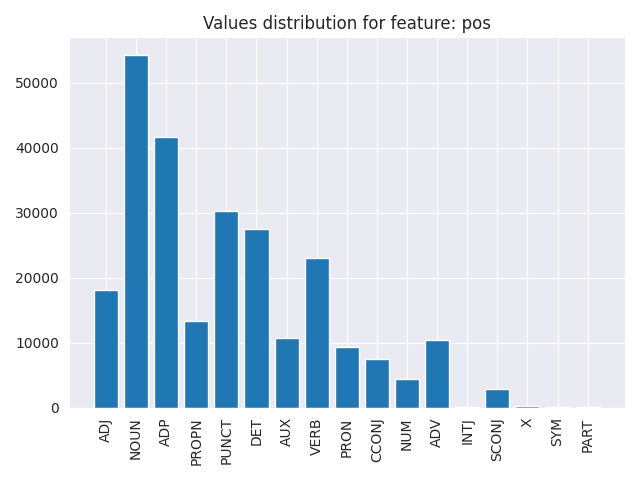
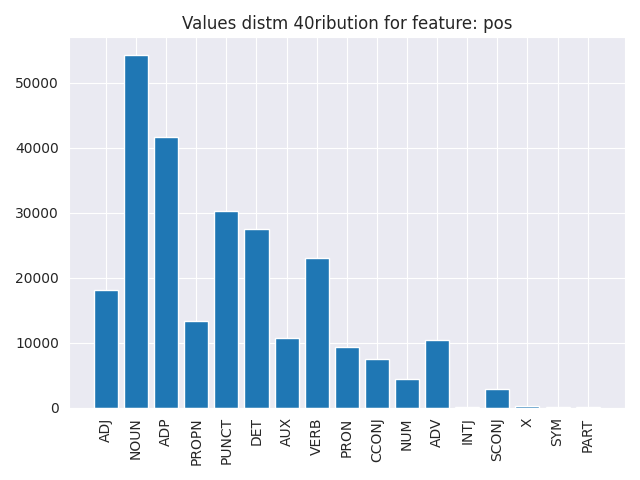
added new attention shift plots and code refactoring

Changed region(s): [[0.2812, 0.0312, 0.8125, 0.0625]]

diff --git a/scripts/attention_shift/utils.py b/scripts/attention_shift/utils.py
@@ -5,16 +5,10 @@ from tqdm import tqdm
 import seaborn as sns
 import pandas as pd
 import numpy as np
-import argparse
 import json
 import ast
 import csv
 import os
-
-sns.set_style('darkgrid')
-
-USER_IDS = [3, 11, 13, 17, 21, 26, 36, 37, 48]
-
 
 def load_json(src_path):
     with open(src_path, 'r') as src_file:
@@ -91,7 +85,7 @@ def sum_attention_across_dataset(dataset, feature, pos_filter):
             attention_counter_baseline[layer][feature_value] /= count
             attention_counter_finetuned[layer][feature_value] /= count
 
-    return attention_counter_baseline, attention_counter_finetuned
+    return attention_counter_baseline, attention_counter_finetuned, feature_occurrences
 
 
 
@@ -104,18 +98,22 @@ def compute_layer_attention_shift(attention_counter_baseline, attention_counter_
         layer_records.append({'feature_value': feat_value, 'attention': attention_counter_finetuned[feat_value], 'model': 'finetuned'})
 
         if add_difference:
+            difference =  attention_counter_finetuned[feat_value] - attention_counter_baseline[feat_value]
+            relative_difference = difference / attention_counter_baseline[feat_value]
             layer_records.append({'feature_value': feat_value, 
-                            'attention': attention_counter_finetuned[feat_value] - attention_counter_baseline[feat_value], 
+                            'attention': relative_difference, 
                             'model': 'difference'})
 
     layer_df = pd.DataFrame.from_records(layer_records)
     return layer_df
 
 
+
 def compute_user_shift(dataset, baseline_attentions, finetuned_attentions, normalize, feature, pos_filter):
 
     dataset = add_attentions_to_dataset(dataset, baseline_attentions, finetuned_attentions, normalize)
-    attention_counter_baseline, attention_counter_finetuned = sum_attention_across_dataset(dataset, feature, pos_filter) 
+    attention_counter_baseline, attention_counter_finetuned, feature_occurences = sum_attention_across_dataset(dataset, feature, pos_filter) 
+
 
     all_layers_df = []
     for layer in range(12):
@@ -125,7 +123,7 @@ def compute_user_shift(dataset, baseline_attentions, finetuned_attentions, norma
         layer_df['layer'] = layer
         all_layers_df.append(layer_df)
 
-    return pd.concat(all_layers_df, ignore_index=True)
+    return pd.concat(all_layers_df, ignore_index=True), feature_occurences
 
 
 def plot_attention_shift(attention_shift, max_plot_value, feature_name, output_path):
@@ -133,6 +131,7 @@ def plot_attention_shift(attention_shift, max_plot_value, feature_name, output_p
 
     if max_plot_value:
         attention_shift = attention_shift[attention_shift['feature_value'] <= max_plot_value]
+        attention_shift = attention_shift[attention_shift['feature_value'] >= -max_plot_value]
 
     for layer in list(attention_shift['layer'].unique()):
         layer_attention_shift = attention_shift[attention_shift['layer'] == layer]
@@ -152,43 +151,31 @@ def plot_attention_shift(attention_shift, max_plot_value, feature_name, output_p
     plt.show()
     plt.close()
 
-
-def main():
-    parser = argparse.ArgumentParser()
-    parser.add_argument('-f', '--feature', type=str)
-    parser.add_argument('-m', '--max_plot_value', type=int)
-    parser.add_argument('-n', '--normalize', action='store_true')
-    parser.add_argument('-p', '--pos_filter', type=str)
-    args = parser.parse_args()
-
-    ud_path = 'data/ud_treebank/it_isdt-ud-train_sentences.csv'
-    baseline_attention_dir = 'data/attentions/ud/baseline'
-
-    output_dir = f'data/results/attention_shift/{args.feature}'
-    if args.pos_filter:
-        output_dir = output_dir+f'_{args.pos_filter}'
-    if not os.path.exists(output_dir):
-        os.makedirs(output_dir)
-
+def load_attention_shift_df(user_ids, ud_path, baseline_attention_dir, language, output_dir, normalize, feature, pos_filter, max_plot_value=None, plot_user=False):
     dataset = load_ud_dataset(ud_path)
     baseline_attentions = {layer: load_json(os.path.join(baseline_attention_dir, f'{layer}.json')) for layer in range(12)}
 
     all_attention_shifts = []
-    with tqdm(total=len(USER_IDS)) as pbar:
-        for user_id in USER_IDS:
-            finetuned_attention_dir = f'data/attentions/ud/finetuned/user_{user_id}'
+    with tqdm(total=len(user_ids)) as pbar:
+        for user_id in user_ids:
+            finetuned_attention_dir = f'data/attentions/{language}/ud/finetuned/user_{user_id}'
             output_path = os.path.join(output_dir, f'user_{user_id}.png')
             finetuned_attentions = {layer: load_json(os.path.join(finetuned_attention_dir, f'{layer}.json')) for layer in range(12)}
-            attention_shift = compute_user_shift(dataset, baseline_attentions, finetuned_attentions, args.normalize, args.feature, args.pos_filter)
-            plot_attention_shift(attention_shift, args.max_plot_value, args.feature, output_path)
+            attention_shift, feature_occurences = compute_user_shift(dataset, baseline_attentions, finetuned_attentions, normalize, feature, pos_filter)
+            if plot_user:
+                plot_attention_shift(attention_shift, max_plot_value, feature, output_path)
             attention_shift['user'] = user_id
             all_attention_shifts.append(attention_shift)
             pbar.update(1)
-
-    output_path = os.path.join(output_dir, f'user_avg.png')
     all_attention_shifts_df = pd.concat(all_attention_shifts, ignore_index=True)
-    plot_attention_shift(all_attention_shifts_df, args.max_plot_value, args.feature, output_path)
-    
+    return all_attention_shifts_df, feature_occurences
 
-if __name__ == '__main__':
-    main()
+def plot_feature_occurences(feature_occurences, feature_name, output_path):
+    x = list(feature_occurences.keys())
+    y = list(feature_occurences.values())
+    plt.bar(x, y)
+    plt.xticks(rotation=90)
+    plt.title(f'Values distribution for feature: {feature_name}')
+    plt.tight_layout()
+    plt.savefig(output_path)
+    plt.show()

diff --git a/scripts/attention_shift/attention_shift_layers.py b/scripts/attention_shift/attention_shift_layers.py
@@ -1,0 +1,62 @@
+import matplotlib.pyplot as plt
+import seaborn as sns
+from tqdm import tqdm
+from utils import *
+import pandas as pd
+import argparse
+import os
+
+sns.set_style('darkgrid')
+
+USER_IDS = {
+    'it':[3, 11, 13, 17, 21, 26, 36, 37, 48],
+    'en': [3, 6, 72, 74, 76, 78, 79, 82, 83, 84, 85, 86, 87, 88, 89, 90, 91, 93, 94, 95, 97, 98, 99, 101, 102]
+} 
+
+
+def main():
+    parser = argparse.ArgumentParser()
+    parser.add_argument('-l', '--language', type=str, choices=['it', 'en'])
+    parser.add_argument('-f', '--feature', type=str)
+    parser.add_argument('-m', '--max_plot_value', type=int)
+    parser.add_argument('-n', '--normalize', action='store_true')
+    parser.add_argument('-p', '--pos_filter', type=str)
+    args = parser.parse_args()
+    
+    baseline_attention_dir = f'../data/attentions/{args.language}/ud/baseline'
+
+    if args.language == 'it':
+        ud_path = 'data/ud_treebank/it_isdt-ud-train_sentences.csv'
+    else:
+        ud_path = 'data/ud_treebank/en_ewt-ud-train_sentences.csv'
+    baseline_attention_dir = f'data/attentions/{args.language}/ud/baseline'
+
+    output_dir = f'data/results/{args.language}/attention_shift/{args.feature}'
+    if args.pos_filter:
+        output_dir = output_dir+f'_{args.pos_filter}'
+    if not os.path.exists(output_dir):
+        os.makedirs(output_dir)
+
+    user_ids = USER_IDS[args.language]
+    all_attention_shifts_df, _ = load_attention_shift_df(user_ids, ud_path, baseline_attention_dir, args.language, output_dir, args.normalize, args.feature, args.pos_filter)
+
+    difference_df = all_attention_shifts_df[all_attention_shifts_df['model'] == 'difference']
+
+    output_path = os.path.join(output_dir, 'differences_across_layers.png')
+    plt.figure(figsize=(20, 10))
+    p = sns.lineplot(data=difference_df, x='layer', y='attention', hue='feature_value')
+    p.set_title(f'Attention shift for {args.feature}')
+    plt.savefig(output_path, bbox_inches='tight')
+    plt.show()
+    plt.clf()
+
+    # Absolute values of difference
+    output_path = os.path.join(output_dir, 'differences_across_layers_abs.png')
+    difference_df['attention'] = difference_df['attention'].abs()
+    sns.lineplot(data=difference_df, x='layer', y='attention', hue='feature_value')
+    p.set_title(f'Attention shift for {args.feature}')
+    plt.savefig(output_path, bbox_inches='tight')
+    plt.show()
+
+if __name__ == '__main__': 
+    main()

diff --git a/scripts/attention_shift/visualize_attention_shift.py b/scripts/attention_shift/visualize_attention_shift.py
@@ -1,0 +1,57 @@
+from collections import defaultdict
+import matplotlib.pyplot as plt
+from datasets import Dataset
+from tqdm import tqdm
+import seaborn as sns
+from utils import *
+import pandas as pd
+import numpy as np
+import argparse
+import json
+import ast
+import csv
+import os
+
+sns.set_style('darkgrid')
+
+USER_IDS = {
+    'it':[3, 11, 13, 17, 21, 26, 36, 37, 48],
+    'en': [3, 6, 72, 74, 76, 78, 79, 82, 83, 84, 85, 86, 87, 88, 89, 90, 91, 93, 94, 95, 97, 98, 99, 101, 102]
+} 
+
+
+def main():
+    parser = argparse.ArgumentParser()
+    parser.add_argument('-l', '--language', type=str, choices=['it', 'en'])
+    parser.add_argument('-f', '--feature', type=str)
+    parser.add_argument('-m', '--max_plot_value', type=int)
+    parser.add_argument('-n', '--normalize', action='store_true')
+    parser.add_argument('-p', '--pos_filter', type=str)
+    args = parser.parse_args()
+
+    if args.language == 'it':
+        ud_path = 'data/ud_treebank/it_isdt-ud-train_sentences.csv'
+    else:
+        ud_path = 'data/ud_treebank/en_ewt-ud-train_sentences.csv'
+    baseline_attention_dir = f'data/attentions/{args.language}/ud/baseline'
+
+    output_dir = f'data/results/{args.language}/attention_shift/{args.feature}'
+    if args.pos_filter:
+        output_dir = output_dir+f'_{args.pos_filter}'
+    if not os.path.exists(output_dir):
+        os.makedirs(output_dir)
+
+    
+    user_ids = USER_IDS[args.language]
+    all_attention_shifts_df, feature_occurences = load_attention_shift_df(user_ids, ud_path, baseline_attention_dir, args.language, output_dir, args.normalize, args.feature, args.pos_filter, args.max_plot_value, plot_user=True)
+
+    output_path = os.path.join(output_dir, f'feature_distribution.png')
+    plot_feature_occurences(feature_occurences, args.feature, output_path)
+
+    output_path = os.path.join(output_dir, f'user_avg.png')
+    all_attention_shifts_df = pd.concat(all_attention_shifts_df, ignore_index=True)
+    plot_attention_shift(all_attention_shifts_df, args.max_plot_value, args.feature, output_path)
+    
+
+if __name__ == '__main__':
+    main()
